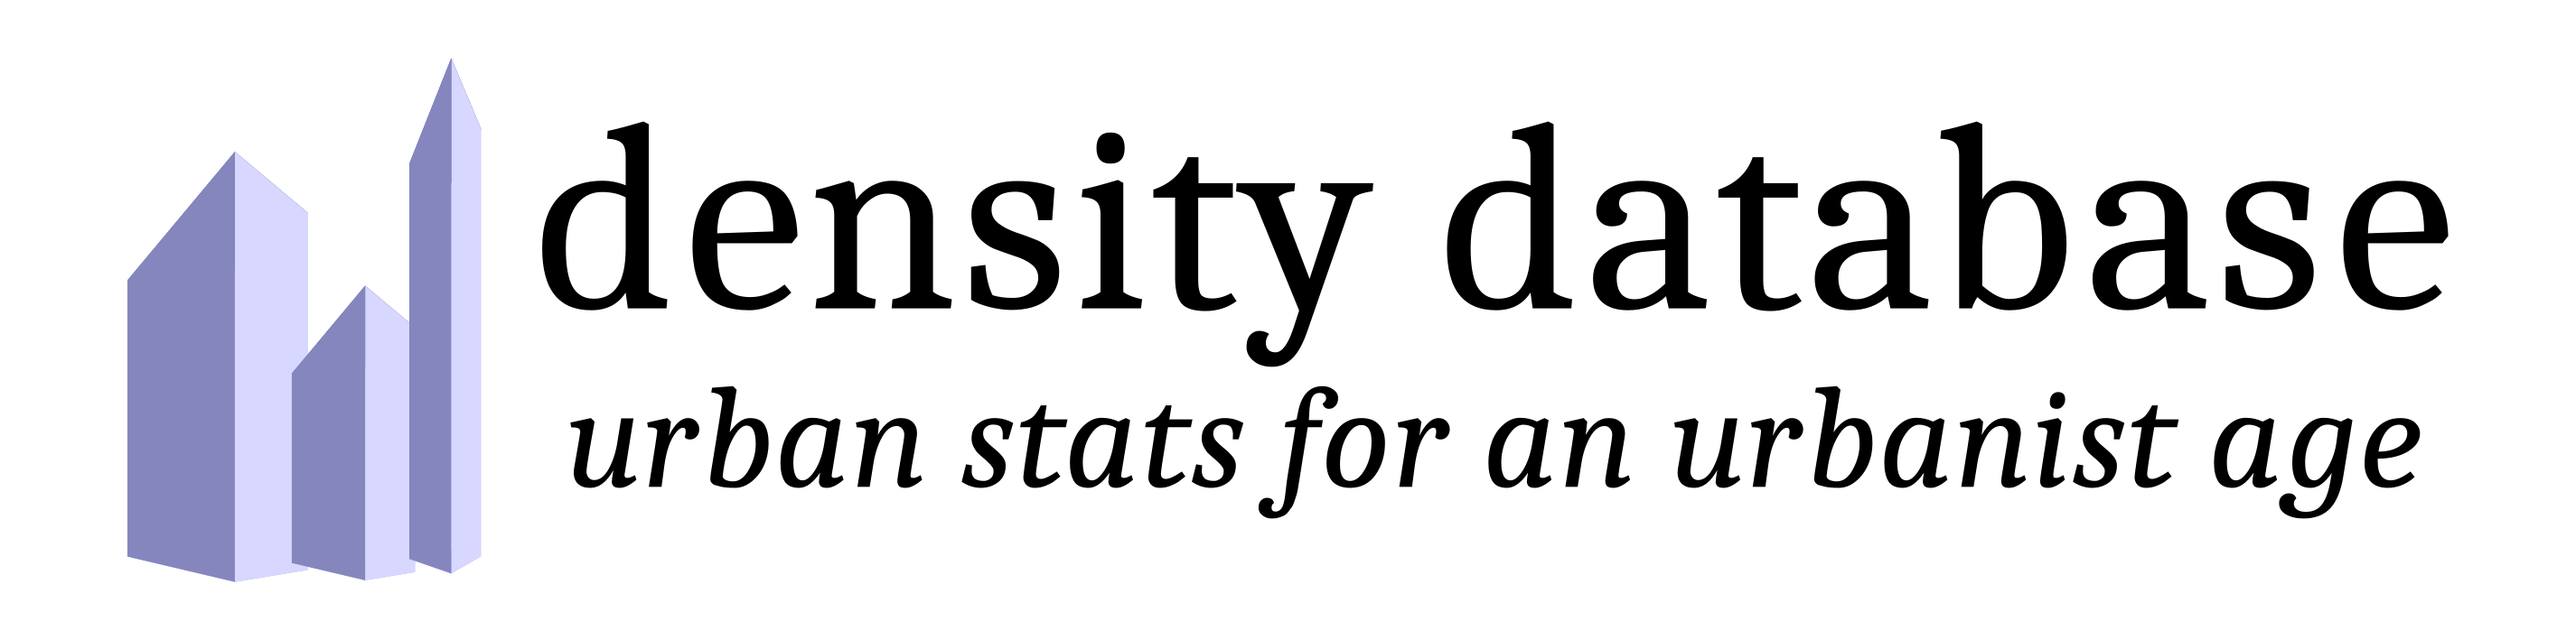
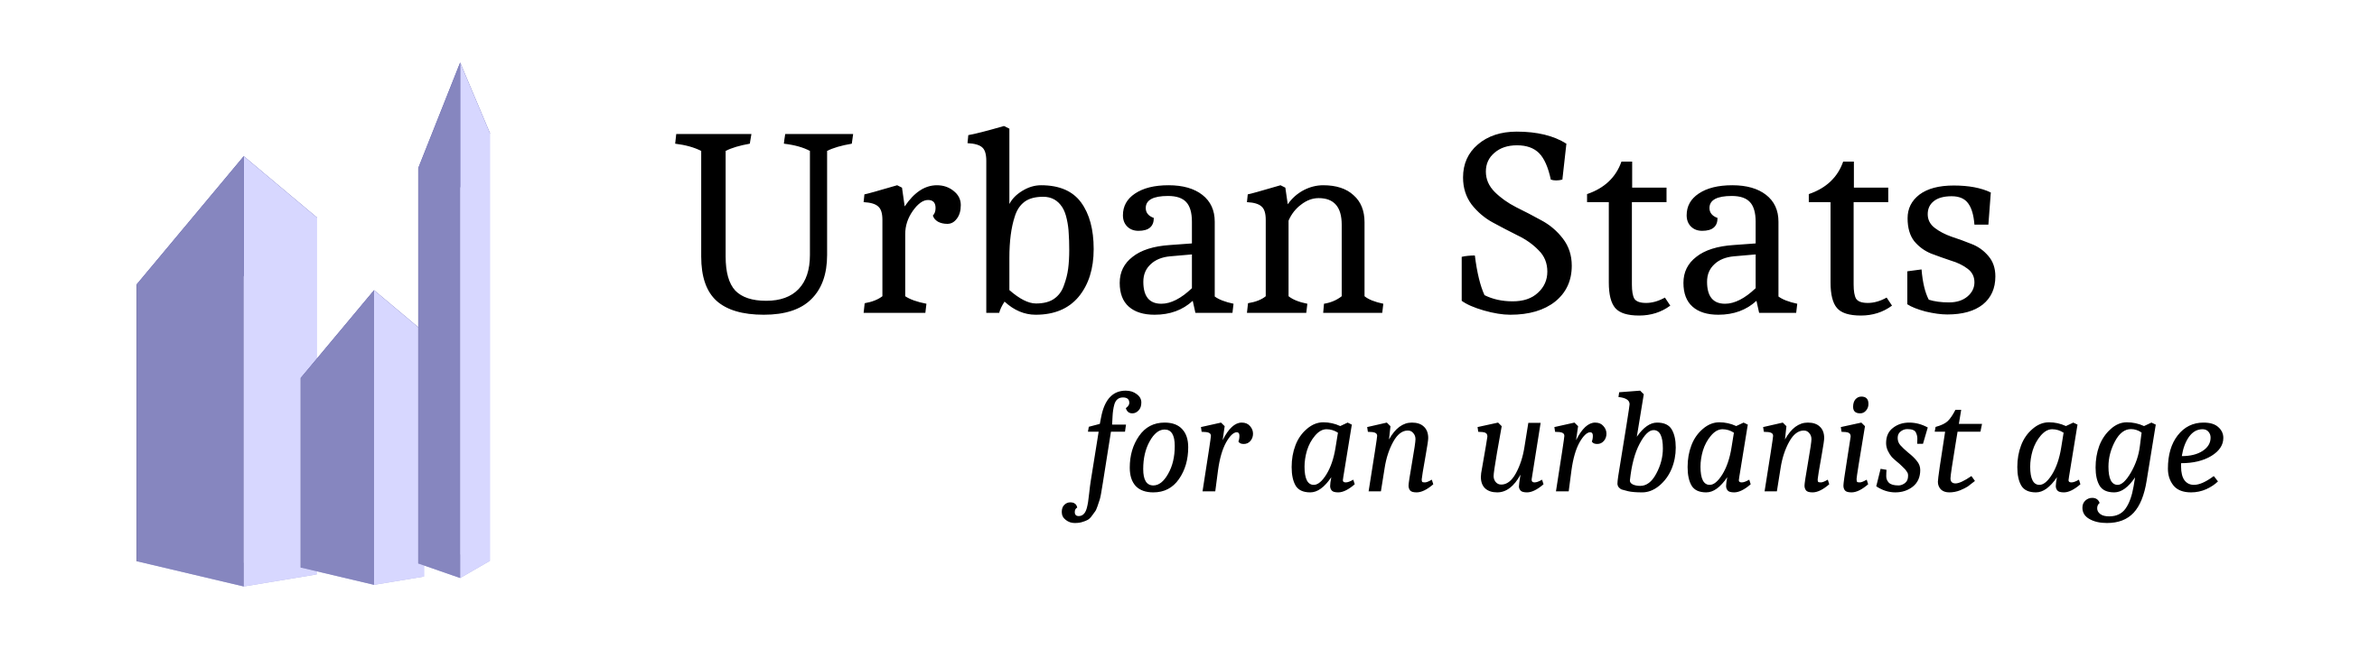
update

Changed region(s): [[0.062, 0.0931, 0.9613, 0.8999], [0.031, 0.4034, 0.062, 0.8688]]

diff --git a/react/src/index.js b/react/src/index.js
@@ -16,11 +16,11 @@ class IndexPanel extends PageTemplate {
         return (
             <div>
                 <div className="centered_table">
-                    <a href="/index.html"><img src="/banner.png" className="logo" alt="Density Database Logo" width="100%" /></a>
+                    <a href="/index.html"><img src="/banner.png" className="logo" alt="Urban Stats Logo" width="100%" /></a>
                 </div>
 
                 <div className="centered_text centered_table" style={{ textAlign: "left" }}>
-                    <p>The Density Database is a database of various statistics related to density, housing, and race
+                    <p>The Urban Stats is a database of various statistics related to density, housing, and race
                         in the United States for a variety of regions. It is intended to be a resource for journalists,
                         researchers, and anyone else who is interested in these topics. The data is collected from the
                         US Census Bureau's 2020 census; and shapefiles for each region of interest are obtained from

diff --git a/react/src/page_template/template.js b/react/src/page_template/template.js
@@ -36,7 +36,7 @@ class PageTemplate extends React.Component {
                     <div className="right_panel">
                         {this.main_content()}
                         <div className="gap"></div>
-                        <div className="centered_text">Density Database Version 2.0.2 by Kavi Gupta. Last updated 2023-06-04.</div>
+                        <div className="centered_text">Urban Stats Version 2.0.2 by Kavi Gupta. Last updated 2023-06-04.</div>
                     </div>
                 </div>
             </div>

diff --git a/react/src/components/sidebar.js b/react/src/components/sidebar.js
@@ -23,7 +23,7 @@ class Sidebar extends React.Component {
                             <a href="/">Home</a>
                         </li>
                         <li>
-                            <a href="/about.html">About Density Database</a>
+                            <a href="/about.html">About Urban Stats</a>
                         </li>
                         <li>
                             <a href="/data-credit.html">Data Credit</a>

diff --git a/react/src/components/search.js b/react/src/components/search.js
@@ -24,7 +24,7 @@ class SearchBox extends React.Component {
                 type="text"
                 className="searchbox serif"
                 list="search-result"
-                placeholder="Search Density Database" />
+                placeholder="Search Urban Stats" />
             <datalist id="search-result">
                 {this.state.matches.map((i) => <option key={i} value={this.values[i]} />)}
             </datalist>

diff --git a/react/src/components/header.js b/react/src/components/header.js
@@ -28,7 +28,7 @@ class HeaderImage extends React.Component {
 
     render() {
         return (
-            <a href="/index.html"><img src="/banner.png" className="logo" alt="Density Database Logo" width="100%" /></a>
+            <a href="/index.html"><img src="/banner.png" className="logo" alt="Urban Stats Logo" width="100%" /></a>
         )
     }
 }

diff --git a/html_templates/about.html b/html_templates/about.html
@@ -5,7 +5,7 @@
     <link rel="icon" type="image/png" href="/thumbnail.png">
     <script src="https://code.jquery.com/jquery-1.9.1.js"></script>
     <script src="https://code.jquery.com/ui/1.10.3/jquery-ui.js"></script>
-    <title>Density Database</title>
+    <title>Urban Stats</title>
 </head>
 
 <body>

diff --git a/html_templates/data-credit.html b/html_templates/data-credit.html
@@ -5,7 +5,7 @@
     <link rel="icon" type="image/png" href="/thumbnail.png">
     <script src="https://code.jquery.com/jquery-1.9.1.js"></script>
     <script src="https://code.jquery.com/ui/1.10.3/jquery-ui.js"></script>
-    <title>Density Database</title>
+    <title>Urban Stats</title>
 </head>
 
 <body>

diff --git a/html_templates/index.html b/html_templates/index.html
@@ -5,7 +5,7 @@
     <link rel="icon" type="image/png" href="/thumbnail.png">
     <script src="https://code.jquery.com/jquery-1.9.1.js"></script>
     <script src="https://code.jquery.com/ui/1.10.3/jquery-ui.js"></script>
-    <title>Density Database</title>
+    <title>Urban Stats</title>
 </head>
 
 <body>

diff --git a/html_templates/article.html b/html_templates/article.html
@@ -2,7 +2,7 @@
 
 <head>
     <meta charset="utf-8">
-    <title>Density Database</title>
+    <title>Urban Stats</title>
     <link rel="icon" type="image/png" href="/thumbnail.png">
 </head>
 
